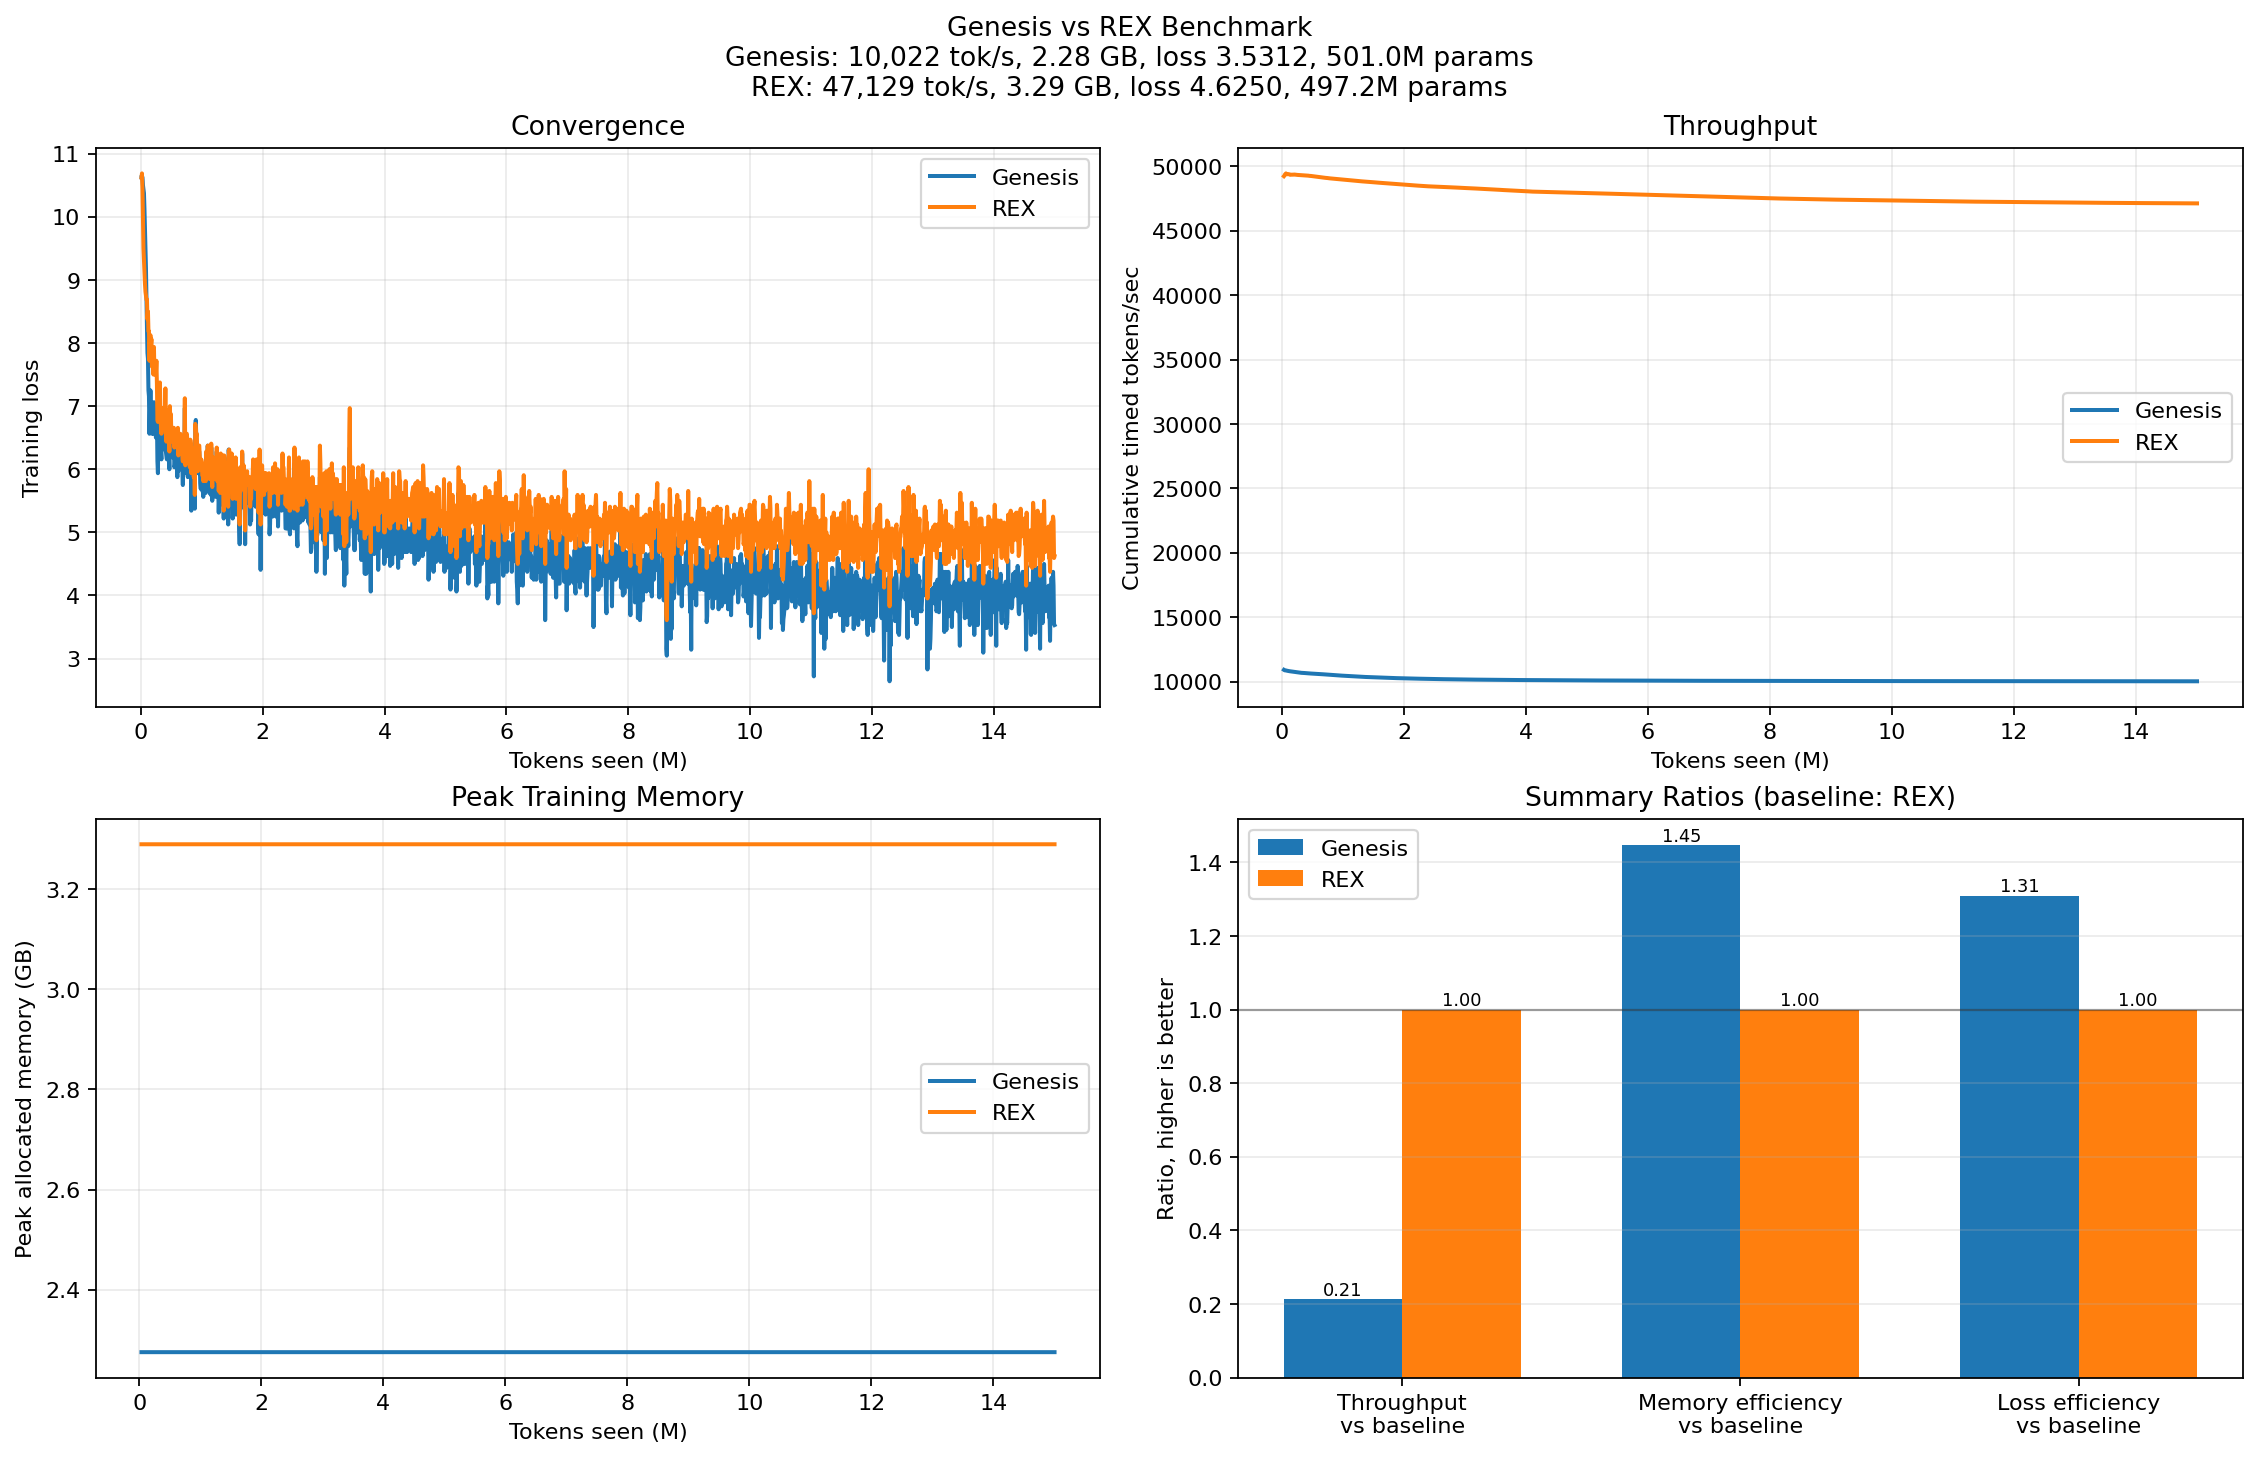
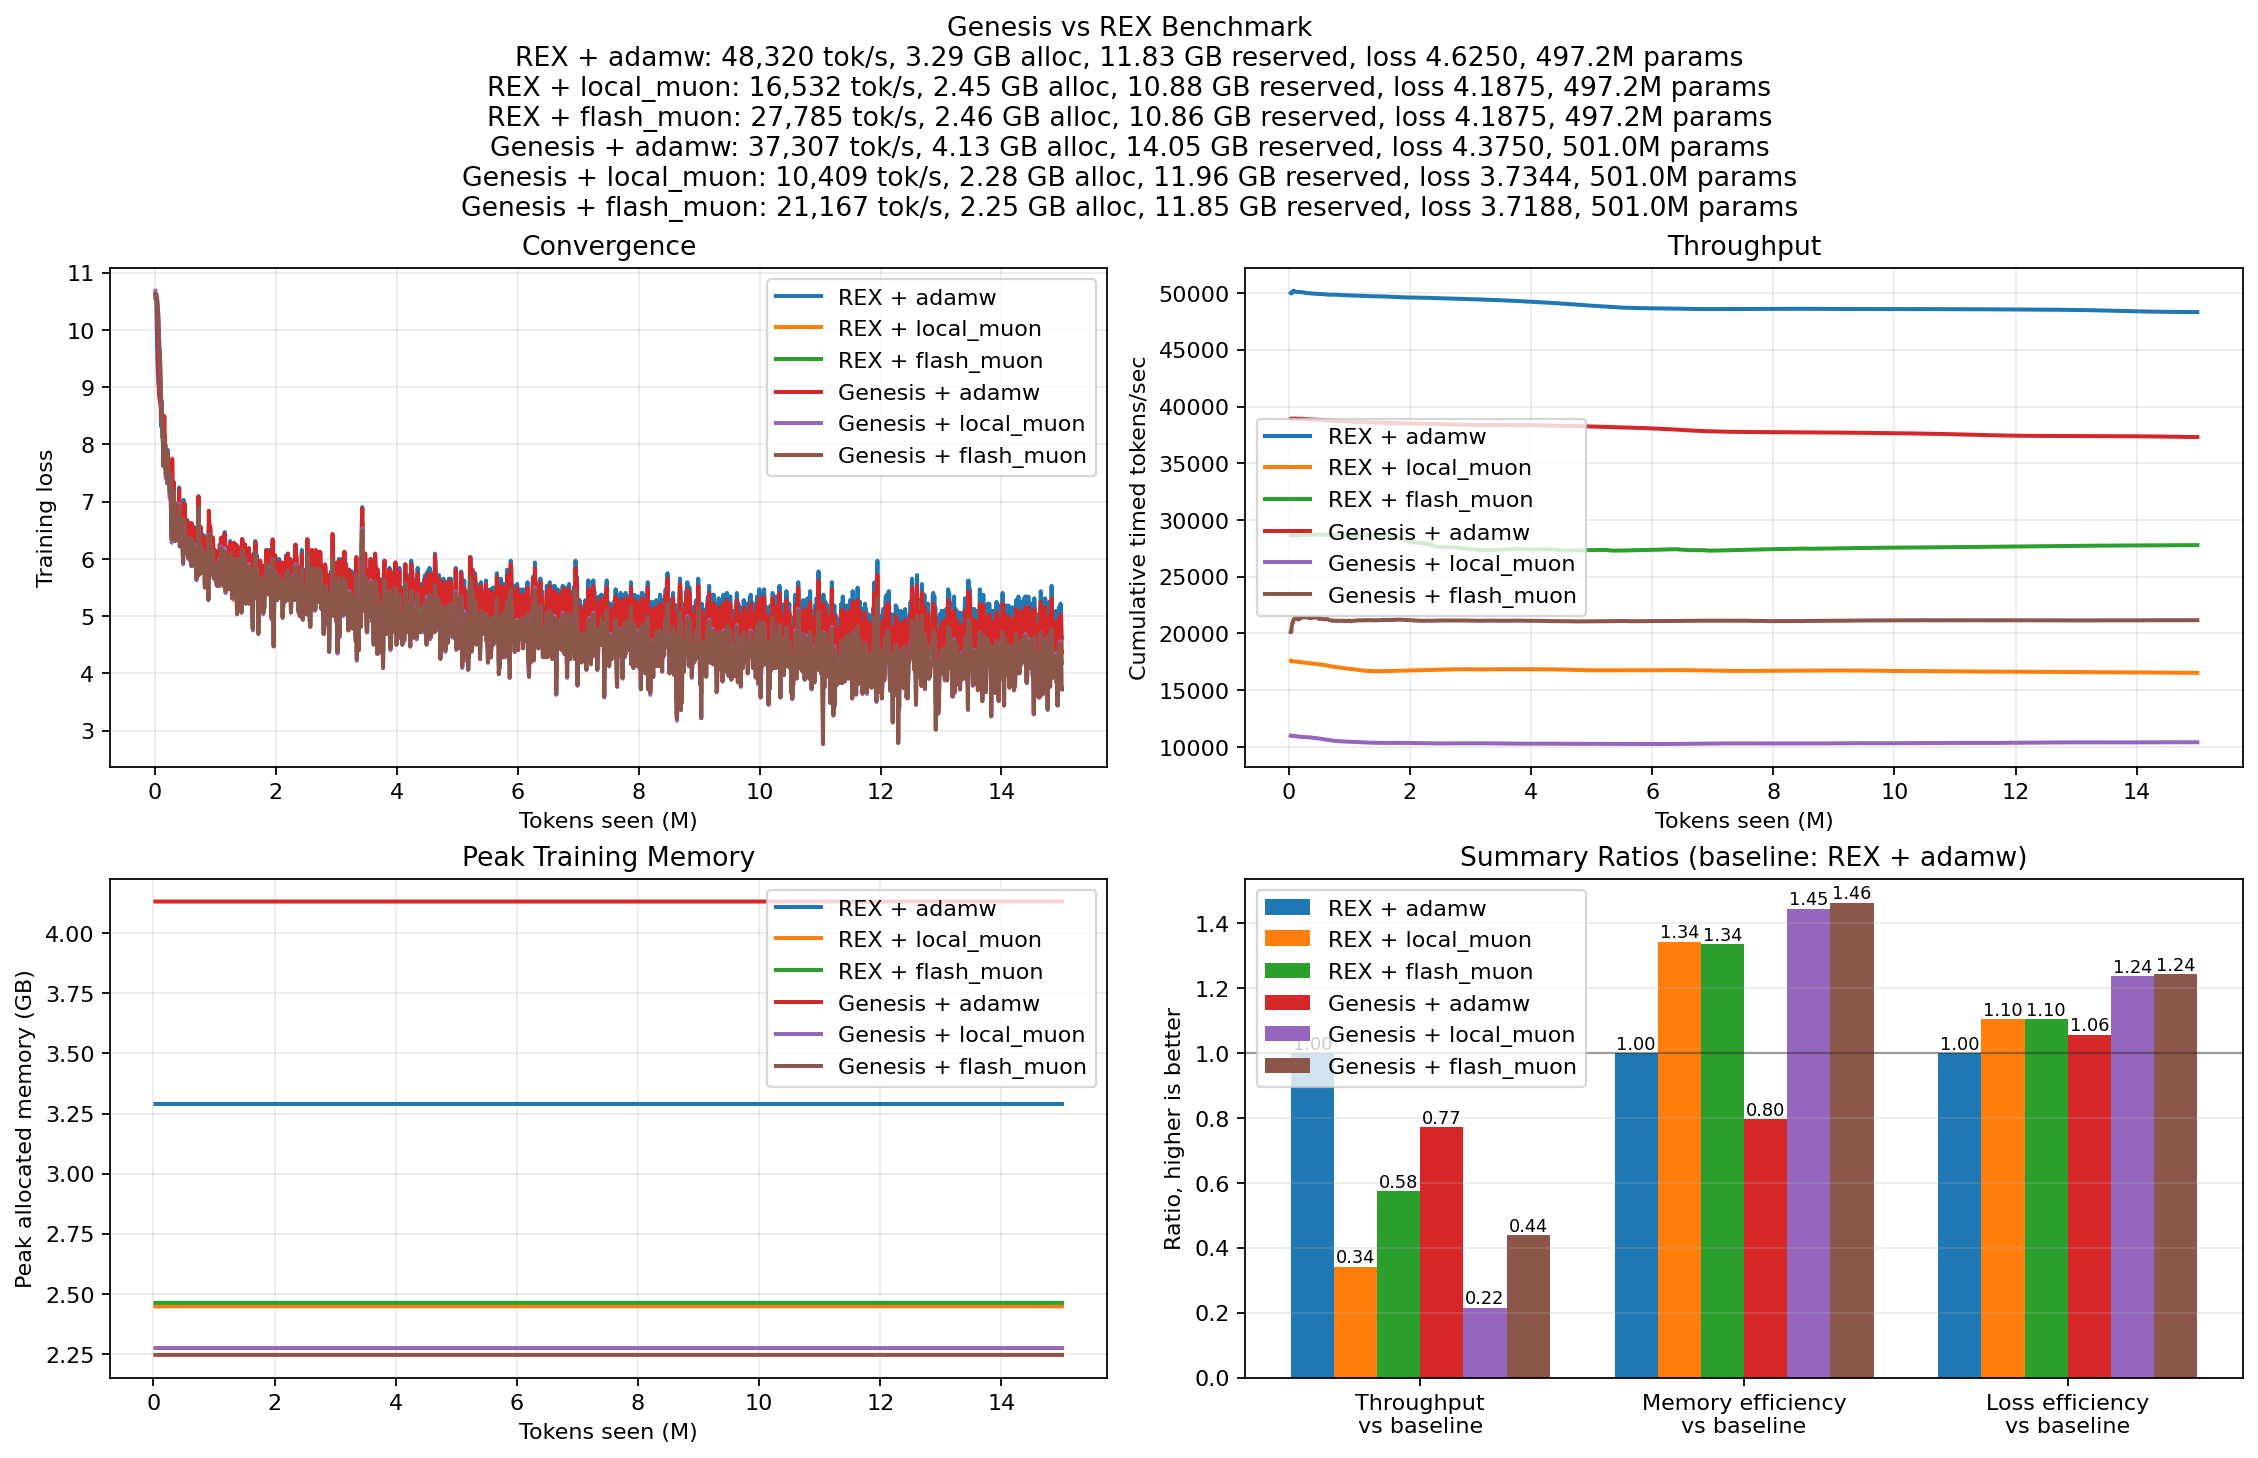
Update .gitignore and enhance benchmark and test files
- Add 'runs' directory to .gitignore for cleaner repository
- Simplify REX model documentation in benchmark.py
- Remove unused dead w3 parameter logic from split_optimizer_params
- Add TinyRexLike model for testing and ensure w3 is treated as a muon matrix parameter
- Create RexW3ConnectionTests to verify gradient flow for w3 in MLP

diff --git a/benchmark.py b/benchmark.py
@@ -15,8 +15,7 @@ Genesis uses:
   - Chunked cross-entropy (no logit materialization)
   - torch.compile
 
-REX uses standard CE (as shipped). REX's dead w3 weights are excluded from
-Muon arms because they never receive gradients.
+REX uses standard CE (as shipped).
 
 Usage:
     python benchmark_genesis.py \
@@ -152,7 +151,7 @@ class ChunkedTokens(IterableDataset):
 REX_500M = dict(
     vocab_size=32000,   # Mistral tokenizer
     max_len=2048,
-    n_layers=22,        # 22 layers @ d=1152 -> ~497M despite dead w3 overhead
+    n_layers=22,        # 22 layers @ d=1152 -> ~497M
     n_heads=16,
     n_kv_heads=4,
     n_embd=1152,
@@ -225,26 +224,12 @@ def _module_param_ids(module) -> set:
     return {id(p) for p in module.parameters()}
 
 
-def _rex_dead_w3_param_ids(model) -> set:
-    if not hasattr(model, "blocks"):
-        return set()
-    ids = set()
-    for block in model.blocks:
-        ff = getattr(block, "ff", None)
-        w3 = getattr(ff, "w3", None)
-        if w3 is not None:
-            ids.update(id(p) for p in w3.parameters())
-    return ids
-
-
 def split_optimizer_params(model: torch.nn.Module, model_key: str) -> OptimizerSplit:
     """Split trainable params into hidden matrices for Muon and Adam fallback params."""
 
     adam_param_ids = set()
     for attr in ("embedding", "lm_head", "fc_out"):
         adam_param_ids.update(_module_param_ids(getattr(model, attr, None)))
-
-    excluded_ids = _rex_dead_w3_param_ids(model) if model_key == "rex" else set()
 
     muon_params, adam_params, excluded_params = [], [], []
     seen = set()
@@ -255,9 +240,7 @@ def split_optimizer_params(model: torch.nn.Module, model_key: str) -> OptimizerS
         seen.add(pid)
         if not p.requires_grad:
             continue
-        if pid in excluded_ids:
-            excluded_params.append(p)
-        elif p.ndim >= 2 and pid not in adam_param_ids:
+        if p.ndim >= 2 and pid not in adam_param_ids:
             muon_params.append(p)
         else:
             adam_params.append(p)
@@ -661,10 +644,6 @@ def param_stats(model, model_key: str):
     if model_key == "rex":
         stats["lm_head_params"] = model.fc_out.weight.numel()
         stats["tied_embeddings"] = model.embedding.weight is model.fc_out.weight
-        dead_w3 = sum(block.ff.w3.weight.numel() for block in model.blocks)
-        stats["rex_dead_w3_params"] = dead_w3
-        stats["active_params_excluding_dead_w3"] = total - dead_w3
-        stats["active_params_excluding_dead_w3_m"] = (total - dead_w3) / 1e6
     return stats
 
 

diff --git a/test_rex_w3_connected.py b/test_rex_w3_connected.py
@@ -1,0 +1,22 @@
+import unittest
+
+import torch
+
+from rexmodel import MLP
+
+
+class RexW3ConnectionTests(unittest.TestCase):
+    def test_mlp_w3_receives_gradient(self):
+        torch.manual_seed(0)
+        mlp = MLP(n_embd=8, dropout=0.0)
+        x = torch.randn(2, 4, 8)
+
+        loss = mlp(x).square().mean()
+        loss.backward()
+
+        self.assertIsNotNone(mlp.w3.weight.grad)
+        self.assertGreater(mlp.w3.weight.grad.abs().sum().item(), 0.0)
+
+
+if __name__ == "__main__":
+    unittest.main()

diff --git a/test_benchmark_optimizer_matrix.py b/test_benchmark_optimizer_matrix.py
@@ -17,6 +17,18 @@ class TinyLM(torch.nn.Module):
         self.lm_head = torch.nn.Linear(8, 16, bias=False)
 
 
+class TinyRexLike(torch.nn.Module):
+    def __init__(self):
+        super().__init__()
+        self.embedding = torch.nn.Embedding(16, 8)
+        self.fc_out = torch.nn.Linear(8, 16, bias=False)
+        ff = torch.nn.Module()
+        ff.w3 = torch.nn.Linear(8, 32, bias=False)
+        block = torch.nn.Module()
+        block.ff = ff
+        self.blocks = torch.nn.ModuleList([block])
+
+
 class FakeFlashMuon(torch.optim.Optimizer):
     def __init__(self, params, **kwargs):
         super().__init__(params, kwargs)
@@ -52,6 +64,14 @@ class BenchmarkOptimizerMatrixTests(unittest.TestCase):
         self.assertIn(id(model.lm_head.weight), adam_ids)
         self.assertNotIn(id(model.embedding.weight), muon_ids)
         self.assertNotIn(id(model.lm_head.weight), muon_ids)
+
+    def test_rex_w3_is_a_muon_matrix_param(self):
+        model = TinyRexLike()
+
+        split = benchmark.split_optimizer_params(model, model_key="rex")
+
+        self.assertIn(id(model.blocks[0].ff.w3.weight), {id(p) for p in split.muon_params})
+        self.assertEqual(split.excluded_param_count, 0)
 
     def test_make_adamw_optimizer_is_available_for_both_models(self):
         for model_key in ("genesis", "rex"):

diff --git a/rexmodel.py b/rexmodel.py
@@ -285,7 +285,7 @@ class MLP(nn.Module):
         self.dropout = nn.Dropout(dropout)
 
     def forward(self, x: torch.Tensor):
-        out = self.w2(F.silu(self.w1(x)))
+        out = self.w2(F.silu(self.w1(x)) * self.w3(x))
         out = self.dropout(out)
         return out
 